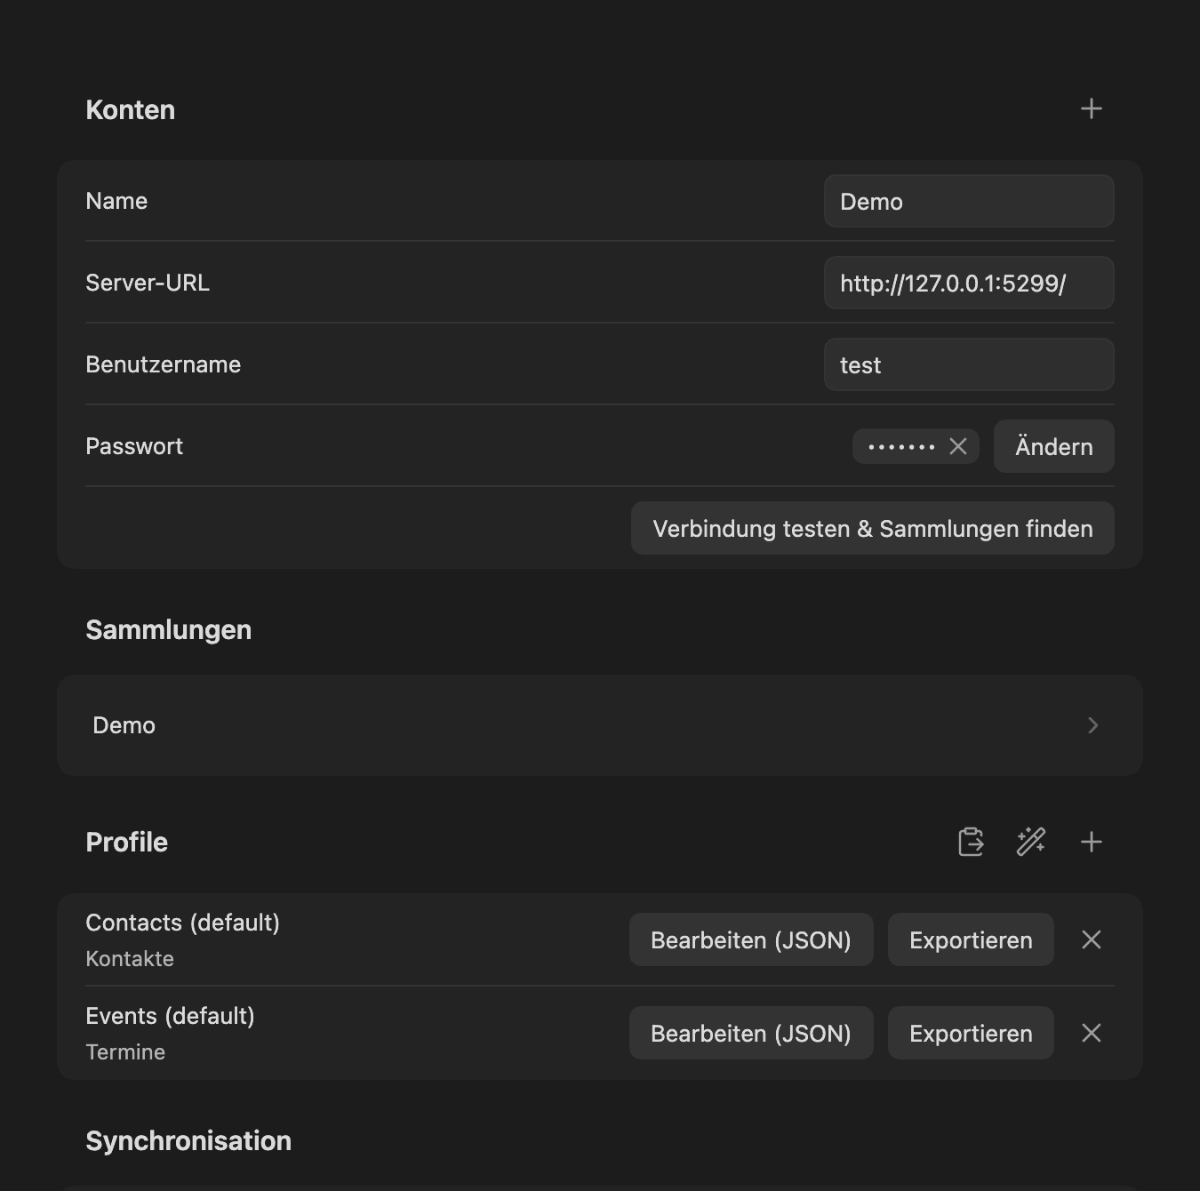
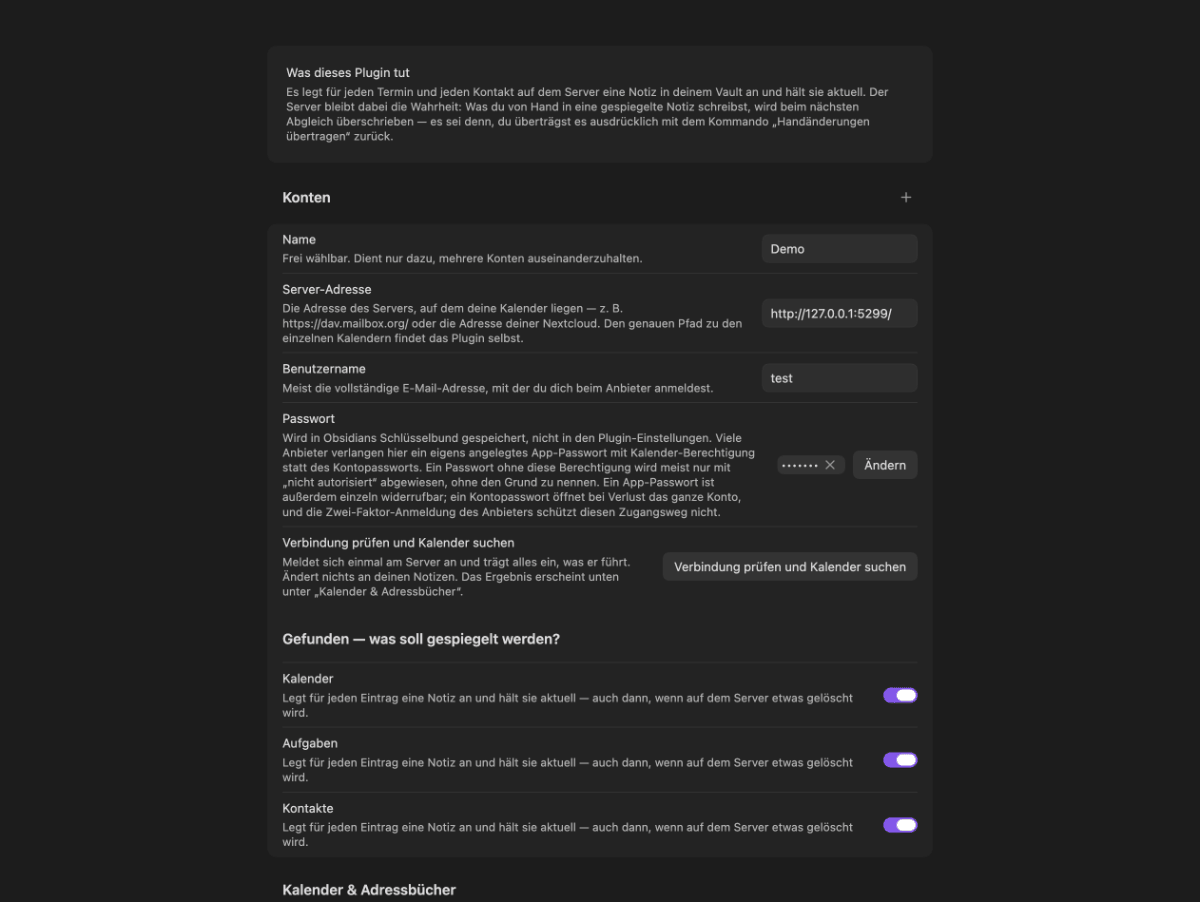
docs(readme): settings.png auf B1-Stand nachziehen (Kalender-Auswahl)
docs/images/settings.png zeigte den Stand vor der B1-Kalenderauswahl (4ed710c) — die
Sammlungsgruppe "Gefunden — was soll gespiegelt werden?" mit den drei Schaltern fehlte.
Neu aufgenommen gegen die reguläre Instanz (Skill readme-shots), Alt-Texte in README.md/
README.de.md korrigiert (das behauptete Profile-Panel war nie im Bildausschnitt) und der
Aufnahme-Vertrag in docs/images/README.md nachgezogen.

diff --git a/docs/images/README.md b/docs/images/README.md
@@ -76,7 +76,7 @@ GIF ≤ 2 MB, Ordner ≤ 5 MB.
 
 | Datei | Klasse | Referenziert von | Muss zeigen |
 |---|---|---|---|
-| `settings.png` | detail | `README.md`/`README.de.md` (Configuration) | Der Einstellungen-Tab (eigenes Fenster, Obsidian 1.13) mit einer bereits eingerichteten **Accounts**-Gruppe: ein Konto-Eintrag mit Name, Server-URL, Benutzername und dem Hinweis, dass ein Passwort auf diesem Gerät hinterlegt ist (`settings.accounts.*`, s. `src/i18n/strings.ts`). Zeigt, dass Zugangsdaten pro Gerät liegen, nicht dass sie im Bild lesbar sind. |
+| `settings.png` | detail | `README.md`/`README.de.md` (Configuration) | Der Einstellungen-Tab (eigenes Fenster, Obsidian 1.13) mit einer bereits eingerichteten **Accounts**-Gruppe: ein Konto-Eintrag mit Name, Server-URL, Benutzername und dem Hinweis, dass ein Passwort auf diesem Gerät hinterlegt ist (`settings.accounts.*`, s. `src/i18n/strings.ts`), darunter die nach „Verbindung prüfen und Kalender suchen" gefundene Sammlungsgruppe **„Gefunden — was soll gespiegelt werden?"** mit je einem Schalter für Kalender/Aufgaben/Kontakte (seit B1, `4ed710c`). Zeigt, dass Zugangsdaten pro Gerät liegen (nicht im Bild lesbar), und dass die Auswahl, was gespiegelt wird, ein bewusster Schritt nach der Discovery ist. |
 | `preview.png` | feature | `README.md`/`README.de.md` (Usage → Setup) | Die Vorschau-Modal (`PreviewModal`, Kommando **Preview sync (dry run)**) nach einem Trockenlauf gegen das Fixture-Radicale: Gesamtzahl der geplanten Operationen und die Aufschlüsselung nach Sammlung (create/update/skip/archive/delete). Zeigt, dass vor jedem echten Lauf ein Trockenlauf möglich ist. |
 | `event-note.png` | hero | `README.md`/`README.de.md` (Kopf, direkt nach den Badges — CORE-META-01 verlangt das erste Bild dort) | Eine gespiegelte Termin-Notiz im **Lesemodus** nach einem echten Sync-Lauf: Frontmatter mit `dav_uid`/`dav_source`/`dav_etag`/`start`/`end` (Properties-Ansicht) und darunter der verwaltete Body-Block. Zeigt den „Server ist Wahrheit, Notiz ist Spiegel"-Kern ohne ein Wort Text. |
 | `adoption.png` | feature | `README.md`/`README.de.md` (Adoption) | Die AdoptionModal (Kommando **Adopt existing notes…**) mit vorbelegten Zeilen: Spalten Server-Eintrag/Notiz/Grund-Konfidenz/Aktion, mindestens eine Zeile mit `sure`→`link` und eine mit `weak`→`skip` sichtbar, dazu der Button **Adopt all sure matches**. Zeigt, dass Verknüpfen ein bestätigter Schritt ist, kein automatischer. |

diff --git a/README.de.md b/README.de.md
@@ -180,7 +180,7 @@ Die mittlere Spalte ist, was in der Befehlspalette getippt wird.
 
 ### Konfiguration
 
-<a href="https://git.jkaindl.de/jkaindl/calendar-notes/raw/branch/main/docs/images/settings.png"><img src="https://git.jkaindl.de/jkaindl/calendar-notes/raw/branch/main/docs/images/thumbs/settings.png" width="380" alt="Der Einstellungen-Tab mit einem Konto (Name, Server-URL, Benutzername, Passwort auf diesem Gerät hinterlegt), der gefundenen Sammlungsgruppe und den zwei Standard-Profilen"></a><br><sub>Vorschau anklicken für volle Größe</sub>
+<a href="https://git.jkaindl.de/jkaindl/calendar-notes/raw/branch/main/docs/images/settings.png"><img src="https://git.jkaindl.de/jkaindl/calendar-notes/raw/branch/main/docs/images/thumbs/settings.png" width="380" alt="Der Einstellungen-Tab mit einem Konto (Name, Server-URL, Benutzername, Passwort auf diesem Gerät hinterlegt) und der gefundenen Sammlungsgruppe mit je einem Schalter für Kalender, Aufgaben und Kontakte"></a><br><sub>Vorschau anklicken für volle Größe</sub>
 
 | Einstellung | Was sie tut | Standard |
 |---|---|---|

diff --git a/README.md b/README.md
@@ -173,7 +173,7 @@ appear under their German names instead.
 
 ### Configuration
 
-<a href="https://git.jkaindl.de/jkaindl/calendar-notes/raw/branch/main/docs/images/settings.png"><img src="https://git.jkaindl.de/jkaindl/calendar-notes/raw/branch/main/docs/images/thumbs/settings.png" width="380" alt="The settings tab with one account (name, server URL, username, password stored on this device), the discovered collection group and the two default profiles"></a><br><sub>Click the preview for full size</sub>
+<a href="https://git.jkaindl.de/jkaindl/calendar-notes/raw/branch/main/docs/images/settings.png"><img src="https://git.jkaindl.de/jkaindl/calendar-notes/raw/branch/main/docs/images/thumbs/settings.png" width="380" alt="The settings tab with one account (name, server URL, username, password stored on this device) and the discovered collection group with a toggle each for calendar, tasks and contacts"></a><br><sub>Click the preview for full size</sub>
 
 | Setting | What it does | Default |
 |---|---|---|
